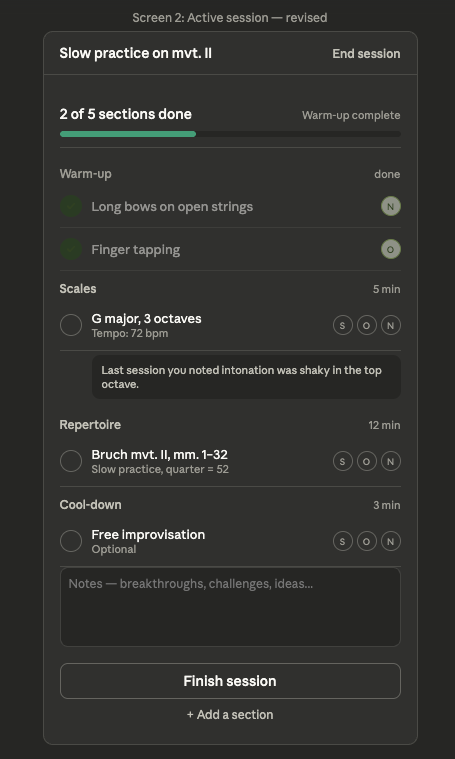
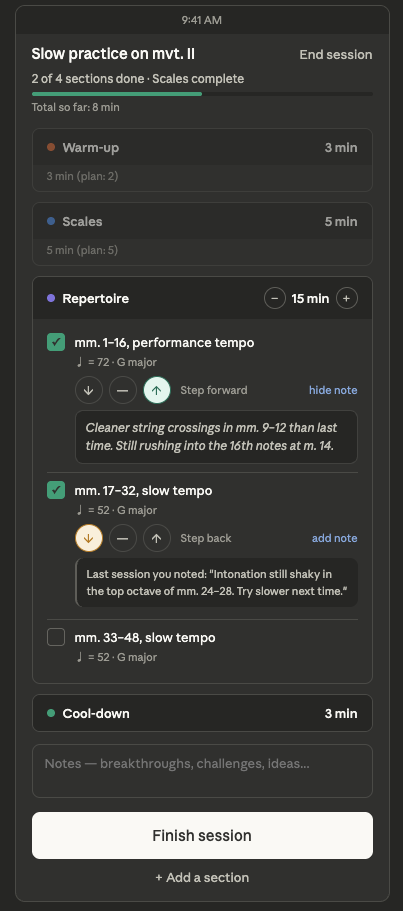
update spec and add new wireframes

diff --git a/docs/kantelo-product-spec.md b/docs/kantelo-product-spec.md
@@ -73,9 +73,12 @@ Bottom tab navigation
 │   ├── Active session (plan view + inline logging)
 │   └── Session summary (post-practice results)
 ├── Progress
-│   ├── Session history
-│   ├── Analytics dashboard
-│   └── Exercise progress
+│   ├── History (default sub-tab)
+│   │   └── Session list (expandable)
+│   └── Insights (sub-tab)
+│       ├── Practice calendar heatmap
+│       ├── Time comparisons
+│       └── Rating trend
 ├── Plans
 │   ├── Template list
 │   ├── Template editor
@@ -144,12 +147,17 @@ Each section (warm-up, scales, repertoire, etc.) contains:
 
 **Rating indicator (chevrons):**
 
-Three circular buttons per exercise, each containing a directional arrow:
-- **Down chevron** = Struggled (amber background when selected: #FAEEDA fill, #BA7517 stroke)
-- **Horizontal line** = Okay (gray background when selected)
-- **Up chevron** = Nailed it (teal background when selected: #E1F5EE fill, #0F6E56 stroke)
+Three circular buttons per exercise, each containing a directional arrow. The rating measures **trajectory, not quality** — "how did this compare to last time?" rather than "how good was that?" This framing is deliberate: musicians are notoriously self-critical, and asking them to declare victory ("Nailed it") skews data negative and makes logging feel punishing. Asking about direction is an observation, not a boast.
 
-Directional shape encodes meaning independently of color (accessible to colorblind users). A text label ("Struggled", "Okay", "Nailed it") appears on selection for the first few uses.
+- **Down chevron** = Step back (amber background when selected: #FAEEDA fill, #BA7517 stroke) — harder than last time, or something regressed
+- **Horizontal line** = Steady (gray background when selected) — about the same as last time
+- **Up chevron** = Step forward (teal background when selected: #E1F5EE fill, #0F6E56 stroke) — improvement, even small
+
+Directional shape encodes meaning independently of color (accessible to colorblind users). A text label ("Step back", "Steady", "Step forward") appears on selection for the first few uses. The framing is consistent from the first session onward — even without a prior session to compare against, users can interpret the scale against their own internal baseline.
+
+**Per-exercise notes:**
+
+Each exercise row includes a small "add note" link that expands an inline text field below the exercise. Notes are scoped to a specific block (stored in BlockLog), not the whole session. This is where users write observations like "intonation still shaky in the top octave of mm. 24–28." The suggestions engine can surface these back in future sessions ("Last session you noted..."). The note field is optional and collapsed by default — zero friction for users who just want to tap ratings and move on.
 
 **In-the-moment suggestions:**
 
@@ -171,11 +179,32 @@ The post-practice reward screen. Answers: "How did that go?"
 
 **"What you practiced" list:**
 
-Each exercise shown with a colored dot (teal for completed, gray for skipped) and its rating in words ("Nailed it", "Struggled", "Skipped").
+Each exercise shown with a colored dot and its rating in words:
+- Teal dot + "Step forward" — exercise where the user improved
+- Gray dot + "Steady" — about the same as last time
+- Amber dot + "Step back" — something regressed
+- Light gray dot + "Skipped" — exercise not completed
+
+Per-exercise notes from the active session are displayed inline below the relevant exercise, providing context for the rating.
 
 **Post-session suggestion:**
 
-A coaching insight card (teal background) that combines backward-looking reflection and forward-looking motivation. Example: "You've practiced 4 of the last 7 days — one more this week matches your goal. Your Bruch slow practice is trending in the right direction: you struggled less on mm. 17–32 than last time."
+A coaching insight card (teal background) that combines backward-looking reflection and forward-looking motivation. The card should use the directional rating language. Example: "You've practiced 4 of the last 7 days — one more this week matches your goal. Your mm. 1–16 are trending forward for the second session in a row. For mm. 17–32, try an even slower tempo next time — sometimes a step back means you're ready to go deeper."
+
+**Guided reflection prompt:**
+
+Below the coaching card, a rotating question with a single optional text field. The prompt encourages noticing over evaluating — it should work equally well whether the session went great or rough. The answer is stored on the PracticeLog alongside session-level notes.
+
+Prompt rotation pool (11 prompts):
+
+- *Progress-oriented:* "What felt different today?" / "What was easier than you expected?" / "Did anything click that hadn't before?"
+- *Forward-looking:* "What do you want to focus on next time?" / "If you had 10 more minutes, what would you spend them on?"
+- *Awareness-building:* "What did you notice about your playing today?" / "Where did your attention go during the session?" / "Was there a moment you want to remember?"
+- *Honest check-in:* "What was the hardest part of today's session?" / "Did anything surprise you?" / "How does your body feel after playing?"
+
+Styled with a brief subtext: "Optional — a moment to notice what you might forget later." Placeholder text models a good answer (e.g., "Felt more relaxed in the left hand. Maybe the new warm-up is helping...").
+
+Rotation rules: the app should avoid showing the same prompt twice in a row and should not repeat any of the last 3 prompts shown. No sophisticated algorithm needed — a shuffle with recency exclusion is sufficient.
 
 **Actions:**
 - "Done" button (primary) — returns to Today tab.
@@ -244,20 +273,94 @@ The bottom nav appears on step 4 (user is now "in" the app). Steps 1–3 do not 
 
 ### 5.7 Progress tab
 
-**Not yet wireframed.** Planned contents:
+The Progress tab uses two sub-tabs: **History** (default) and **Insights**. Both sub-tabs share the instrument pill toggle at the top (same behavior as the Today tab — switches all content to the selected instrument).
 
-- **Session history:** Chronological list of past sessions with date, session name, duration, and expandable detail (exercises, ratings, notes). Filterable by instrument, session type, and date range.
-- **Analytics dashboard:** Practice frequency over time (chart), total time by period (this week vs. last week), average session duration trends, section-type distribution.
-- **Exercise progress:** Per-exercise view showing ratings over time, notes history, and tempo/difficulty progression.
-- **Pattern-level suggestions:** Structural coaching insights that surface here rather than on the Today tab. Example: "Your average session is 15 minutes shorter on weekends" or "You tend to skip cool-down sections."
+**Pattern-level suggestion cards** appear at the top of both sub-tabs, styled with an info-blue accent to distinguish them from the amber pre-session suggestions on the Today tab. The suggestion content can differ between sub-tabs: History might surface session-specific patterns ("You tend to skip cool-down sections"), while Insights might surface frequency patterns ("Your average session is 15 min shorter on weekends"). Suggestions are dismissible and follow the same server-side tracking as other suggestion tiers.
+
+#### History sub-tab (default)
+
+A reverse-chronological list of past sessions. Each session card shows:
+
+**Collapsed state (default):**
+- Date (e.g., "Sat, Mar 21")
+- Session name / day focus (e.g., "Technique focus")
+- Plan source and rotation position (e.g., "Learn the Bruch concerto · session 2 of 7") — or "Off-plan · no template" for freeform sessions
+- Total duration
+- Exercise count
+- Expand/collapse affordance
+
+**Expanded state:**
+- All collapsed-state info, plus:
+- Block list with colored dots matching the rating scheme (teal = step forward, gray = steady, amber = step back, light gray = skipped) and rating label in words
+- Per-exercise notes displayed inline below the relevant exercise (if any were logged)
+- Session-level notes (if any)
+- Reflection prompt response (if any)
+
+**Filtering:** A row of time-range pills (All sessions / This week / This month) sits below the suggestion card. Instrument filtering is handled by the pill toggle at the top. Session type filtering (template vs. freeform) and date range filtering can be added in a later release.
+
+#### Insights sub-tab
+
+Four components, each answering a distinct question about the user's practice:
+
+**1. Practice calendar heatmap**
+
+A GitHub-style contribution grid showing practice activity over the year. Rows are days of the week (Mon–Sun), columns are months. Cell intensity maps to practice duration (not just binary practiced/didn't-practice), using the teal ramp: empty (no practice), light, medium, dark, full. A legend ("Less → More") sits below the grid.
+
+This is the primary consistency motivator — the user can see the pattern of their week/month at a glance. It answers: "Am I showing up?"
+
+**2. Time comparisons ("This week vs. last")**
+
+Two side-by-side stat cards showing:
+- Days practiced (with delta, e.g., "+1 day vs. last week")
+- Total practice time
+
+Below the stat cards, a paired bar chart shows daily breakdown for the current and previous week (teal bars = this week, gray bars = last week). This makes weekly patterns visible at a glance.
+
+Answers: "Am I practicing consistently?"
+
+**3. Rating trend ("How it's going")**
+
+Stacked horizontal bars showing the step back / steady / step forward distribution for each of the last 4 weeks. Uses the same amber / gray / teal color scheme as the rating chevrons. A plain-language summary sits below the chart (e.g., "Trending up — more exercises moving forward each week").
+
+This is the key differentiator from other practice trackers — it directly answers: "Am I getting better?" No other app in the competitive landscape visualizes improvement trajectory this way.
+
+**4. Pattern-level suggestion card** (described above, shared with History sub-tab)
+
+**Deferred to a later release:** Section-type distribution (where time goes), per-exercise drill-down views, and exercise-level progress timelines. These are valuable but not emotionally compelling enough for v1 — they're "hmm, neat" rather than "yes, I'm getting better."
 
 ### 5.8 Profile tab
 
-**Not yet wireframed.** Contains:
+A single scrollable page (no sub-tabs — not enough content to justify them) with four sections:
 
-- **Instruments:** Add, remove, configure instruments. Each instrument can have a practice frequency setting ("I aim to practice this: daily / a few times a week / weekly / occasionally") which calibrates the suggestions engine and the Today tab's instrument rotation.
-- **Settings:** Suggestions opt-in/out (with a possible "fewer suggestions" middle option that limits suggestions to the session summary screen only). Other app preferences.
-- **Account:** Clerk-managed authentication and profile.
+**Account header:**
+
+Compact row showing avatar (initials circle), display name, email, and a "Manage account" link that opens Clerk's account management UI. Clerk handles authentication, password changes, and profile editing.
+
+**My instruments:**
+
+Each instrument is a card showing:
+- Instrument name with an "edit" link (opens detail view for removing the instrument, viewing its plans, etc.)
+- Practice frequency setting as inline pills: Daily / Few times a week / Weekly / Occasionally. Adjustable directly on the card — no drill-down needed. This setting calibrates the suggestions engine and Today tab instrument rotation (see section 6).
+- Summary line: number of active plans and last practice date (e.g., "1 active plan · last practiced today")
+
+"+ Add instrument" button below the instrument cards (dashed border style, matching the template editor's "+ Add section" pattern).
+
+**Coaching suggestions:**
+
+Three radio button options with descriptions:
+- **All suggestions** — "Before, during, and after practice." Pre-session nudges, in-the-moment coaching, post-session reflection, and pattern-level insights are all active.
+- **Fewer suggestions** — "Only in session summaries and Insights." Disables pre-session nudges and in-the-moment coaching. Post-session coaching cards and Progress tab pattern insights remain.
+- **Off** — "No coaching suggestions anywhere." All suggestion tiers disabled.
+
+**Preferences:**
+
+Slim for v1:
+- **Default session duration** — used by the quick-start wizard when generating a plan. Options: 15, 30, 45, 60 min.
+- **Week starts on** — affects the practice calendar heatmap and weekly comparisons in Insights. Options: Monday / Sunday.
+
+Additional preferences can slot in here as needed in later releases.
+
+**Sign out** button at the bottom (danger-colored text, no fill).
 
 ---
 
@@ -285,7 +388,7 @@ Five rules analyze practice patterns and surface coaching nudges. Suggestions ar
 |------|----------|--------|----------|
 | Pre-session nudges | Today tab, above start button | Before practicing | "Your scales coverage has dropped off — consider adding a scales block today." / "It's been 5 days — even a short session counts." |
 | In-the-moment coaching | Active session, inline below exercises | During practice | "Last session you noted intonation was shaky in the top octave." / "Try bumping tempo to 80 this time." |
-| Post-session reflection | Session summary, coaching card | After finishing | "You've practiced 4 of the last 7 days — one more this week hits your goal." / "Your Bruch slow practice is trending: you struggled less on mm. 17–32 than last time." |
+| Post-session reflection | Session summary, coaching card | After finishing | "You've practiced 4 of the last 7 days — one more this week hits your goal." / "Your mm. 1–16 are trending forward for the second session in a row. For mm. 17–32, sometimes a step back means you're ready to go deeper." |
 | Pattern-level insights | Progress tab | When reviewing stats | "Your average session is 15 min shorter on weekends." / "You tend to skip cool-down sections — these help with retention." |
 
 ### Design principles for suggestions
@@ -299,7 +402,7 @@ Five rules analyze practice patterns and surface coaching nudges. Suggestions ar
 ### User controls
 
 - Global opt-out in Settings.
-- "Fewer suggestions" option limits suggestions to the session summary screen only.
+- "Fewer suggestions" option limits suggestions to the session summary screen and the Insights sub-tab only.
 - Individual suggestions are dismissible (tracked server-side so dismissed suggestions don't reappear).
 
 ---
@@ -324,8 +427,8 @@ Key entities and their relationships (for developer reference, not a full schema
 - **Session (template unit)** — belongs to Template, has name (user-provided), focus description, order in rotation, has many Sections
 - **Section** — belongs to Session, has type (warm-up, scales, repertoire, etc.), has many Blocks, has estimated duration
 - **Block** — belongs to Section, has name, description, estimated duration, metadata (tempo, key, difficulty), order in section. May reference a curated block from the library.
-- **PracticeLog** — belongs to Instrument, optionally linked to a Template and Session. Has date, total duration, notes. Has many BlockLogs.
-- **BlockLog** — belongs to PracticeLog, linked to a Block (or freeform). Has actual duration, rating (1=struggled, 2=okay, 3=nailed it), notes.
+- **PracticeLog** — belongs to Instrument, optionally linked to a Template and Session. Has date, total duration, notes, reflection_prompt (which rotating question was shown), reflection_response (user's answer, nullable). Has many BlockLogs.
+- **BlockLog** — belongs to PracticeLog, linked to a Block (or freeform). Has actual duration, rating (-1=step back, 0=steady, 1=step forward), notes (per-exercise note, nullable).
 - **Suggestion** — engine-generated, linked to User/Instrument. Has type, content, dismissed status.
 - **CuratedBlock** — instrument-specific library entry. Has name, description, category, usage count (for popularity ranking).
 
@@ -350,15 +453,18 @@ Wireframes were developed in conversation and should be saved as screenshots in 
 | File | Description |
 |------|-------------|
 | `today-tab.png` | Today tab with instrument toggle, suggestion, plan card, start button |
-| `active-session.png` | Active session with progress bar, inline logging, chevron ratings, time steppers |
-| `session-summary.png` | Post-practice summary with stats, exercise list, coaching suggestion |
+| `active-session.png` | Active session with progress bar, inline logging, directional ratings (step back/steady/step forward), per-exercise notes, time steppers |
+| `session-summary.png` | Post-practice summary with stats, exercise list with directional ratings and notes, coaching suggestion, guided reflection prompt |
 | `quickstart-step1.png` | Wizard step 1: instrument selection |
 | `quickstart-step2.png` | Wizard step 2: what are you working on |
 | `quickstart-step3.png` | Wizard step 3: session area selection |
 | `quickstart-step4.png` | Wizard step 4: time budget and plan preview |
 | `template-editor.png` | Template editor with session tabs, section cards, block list |
 | `block-library.png` | Add block screen with curated library and custom creation |
-| `rating-chevrons.png` | Rating indicator design: chevron style with color |
+| `rating-chevrons.png` | Rating indicator design: directional chevrons (step back/steady/step forward) with amber/gray/teal color |
+| `progress-history.png` | Progress tab, History sub-tab: pattern suggestion card, time filters, session list with expanded/collapsed states |
+| `progress-insights.png` | Progress tab, Insights sub-tab: pattern suggestion card, practice calendar heatmap, weekly time comparisons with bar chart, rating trend stacked bars |
+| `profile.png` | Profile tab: account header, instrument cards with inline frequency settings, coaching suggestions radio options, preferences |
 
 ### Wireframe conventions
 
